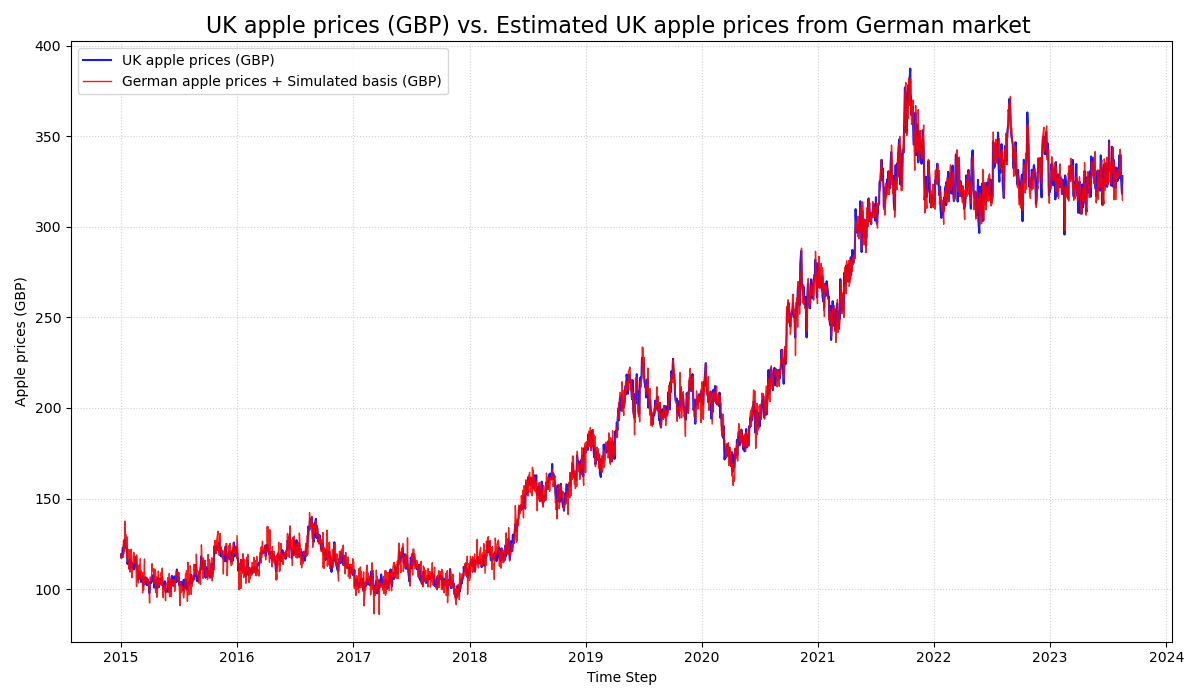
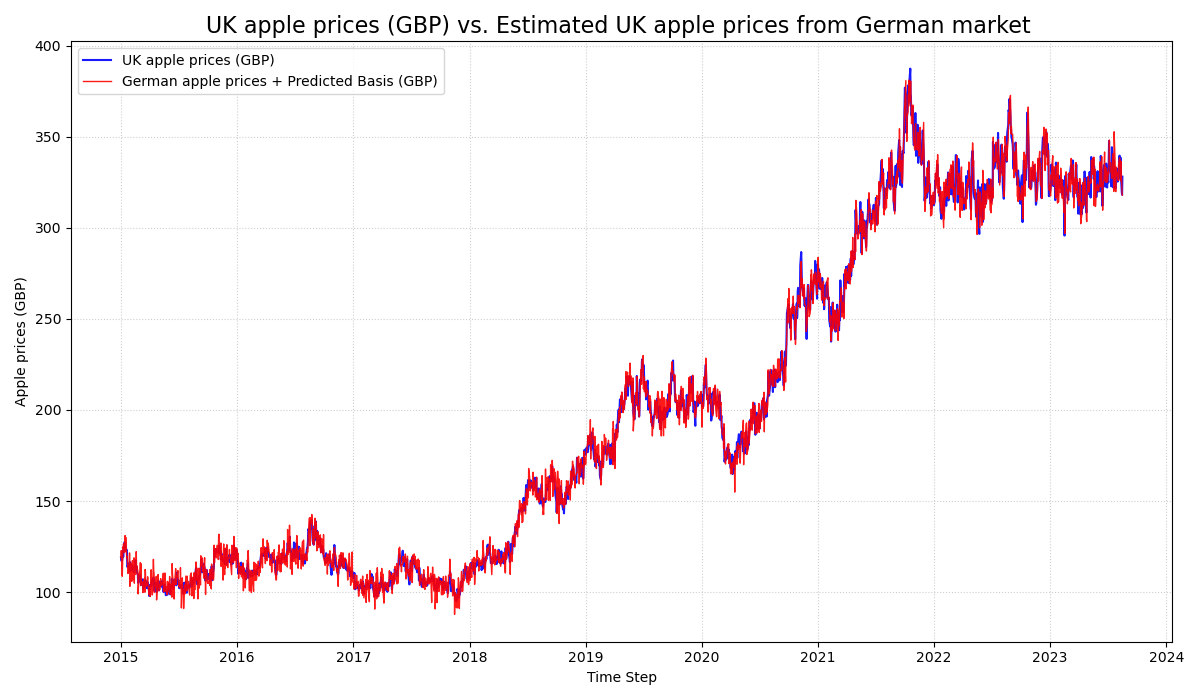
Updated graph and script to make it

diff --git a/model.py b/model.py
@@ -81,7 +81,7 @@ def simulate_results(params,basis,N,dt,UK_dataset,German_dataset,mean,sigma,time
     RMSE = math.sqrt(math.fsum((UK_dataset - estimated_apple_prices)**2)/N)
     # print(f'RMSE of model: {RMSE}')
 
-    # plot_everything(estimated_apple_prices,UK_dataset,German_dataset,time_arr,N)
+    plot_everything(estimated_apple_prices,UK_dataset,German_dataset,time_arr,N)
     return RMSE
 
 def get_new_step(params,previous_basis,dt):
@@ -109,7 +109,7 @@ def plot_everything(estimated_price,uk,german,time_arr,N):
 
     plt.figure(figsize=(12, 7))
     plt.plot(time_arr,uk,label='UK apple prices (GBP)', color='blue', alpha=0.9, linewidth=1.5)
-    plt.plot(time_arr,estimated_price,label='German apple prices + Simulated basis (GBP)', color='red', alpha=0.9, linewidth=1)
+    plt.plot(time_arr,estimated_price,label='German apple prices + Predicted Basis (GBP)', color='red', alpha=0.9, linewidth=1)
     plt.title('UK apple prices (GBP) vs. Estimated UK apple prices from German market ', fontsize=16)
     plt.xlabel('Time Step')
     plt.ylabel('Apple prices (GBP)')
@@ -124,7 +124,7 @@ def main():
     dt = 1/252 # obtain dt value for daily data
     params = get_OU_params(basis,dt)
 
-    reps = 1000
+    reps = 1
     RMSE = np.zeros((reps,))
     for i in range(reps):
         RMSE[i] = simulate_results(params,basis,N,dt,UK_dataset,German_dataset,mean,sigma,time_arr)
